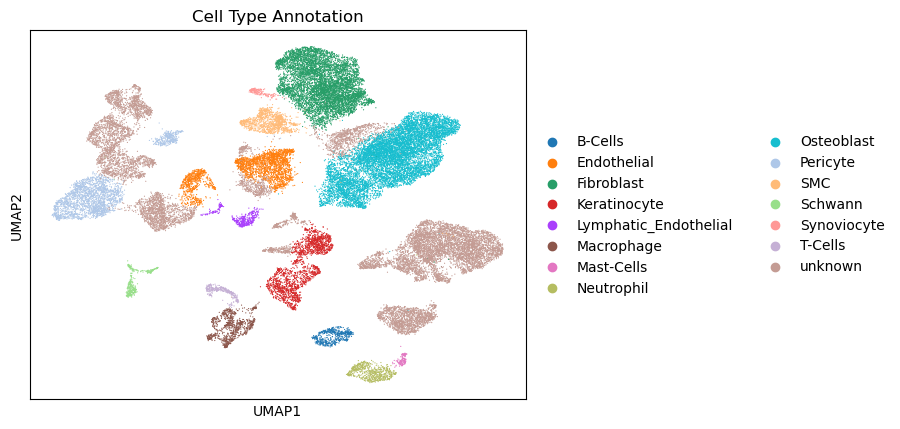
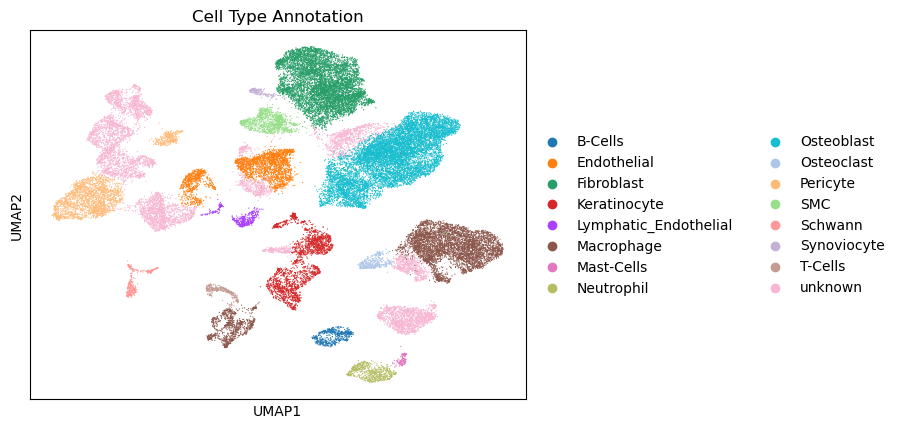
update preliminary annotations

diff --git a/README.md b/README.md
@@ -181,8 +181,7 @@ marker_genes = {
 
 ### Preliminary Annotations 
 
-![](figures/umap_combined_celltypeON.png?v=1) 
+![](figures/umap_combined_celltypeON.png?v=2) 
 
-![](figures/umap_combined_celltype.png?v=1)
-
+![](figures/umap_combined_celltype.png?v=2)
 
